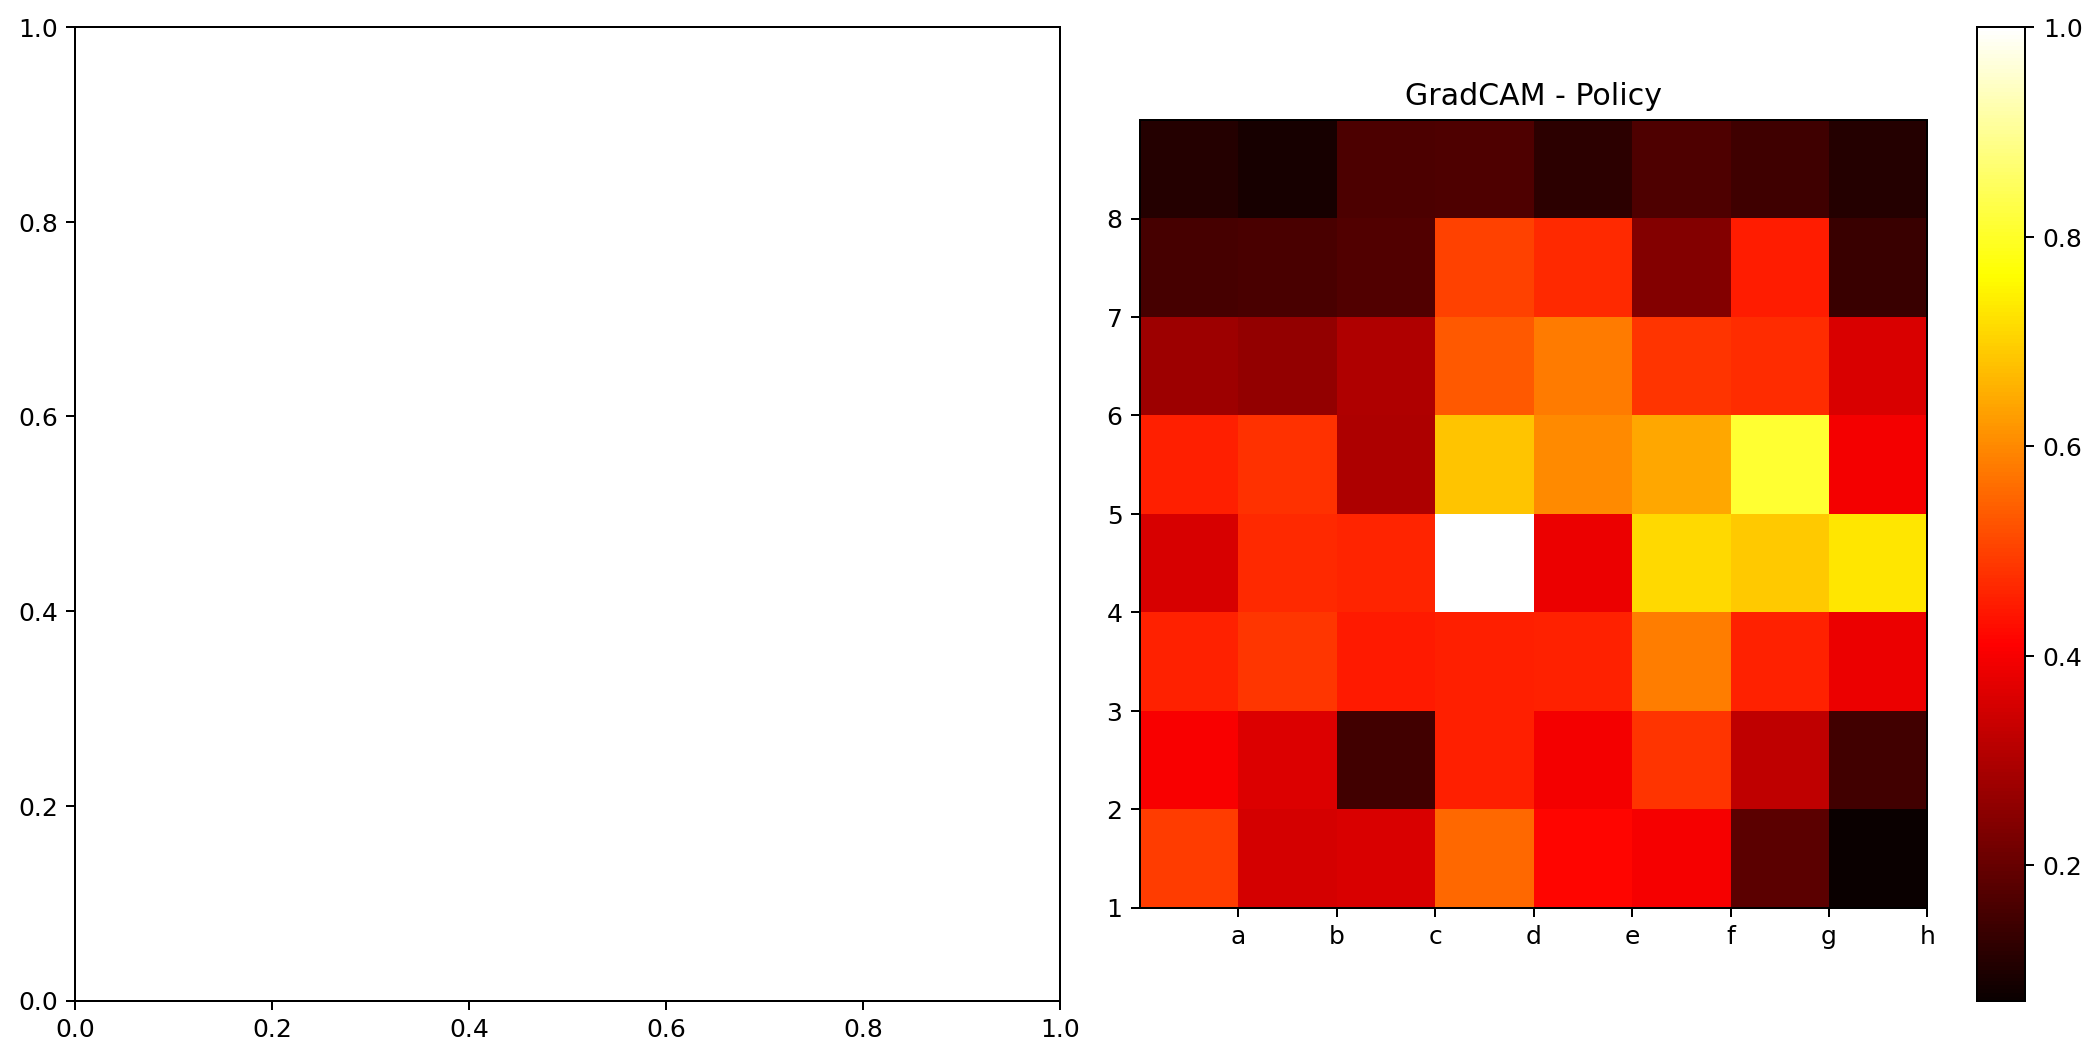
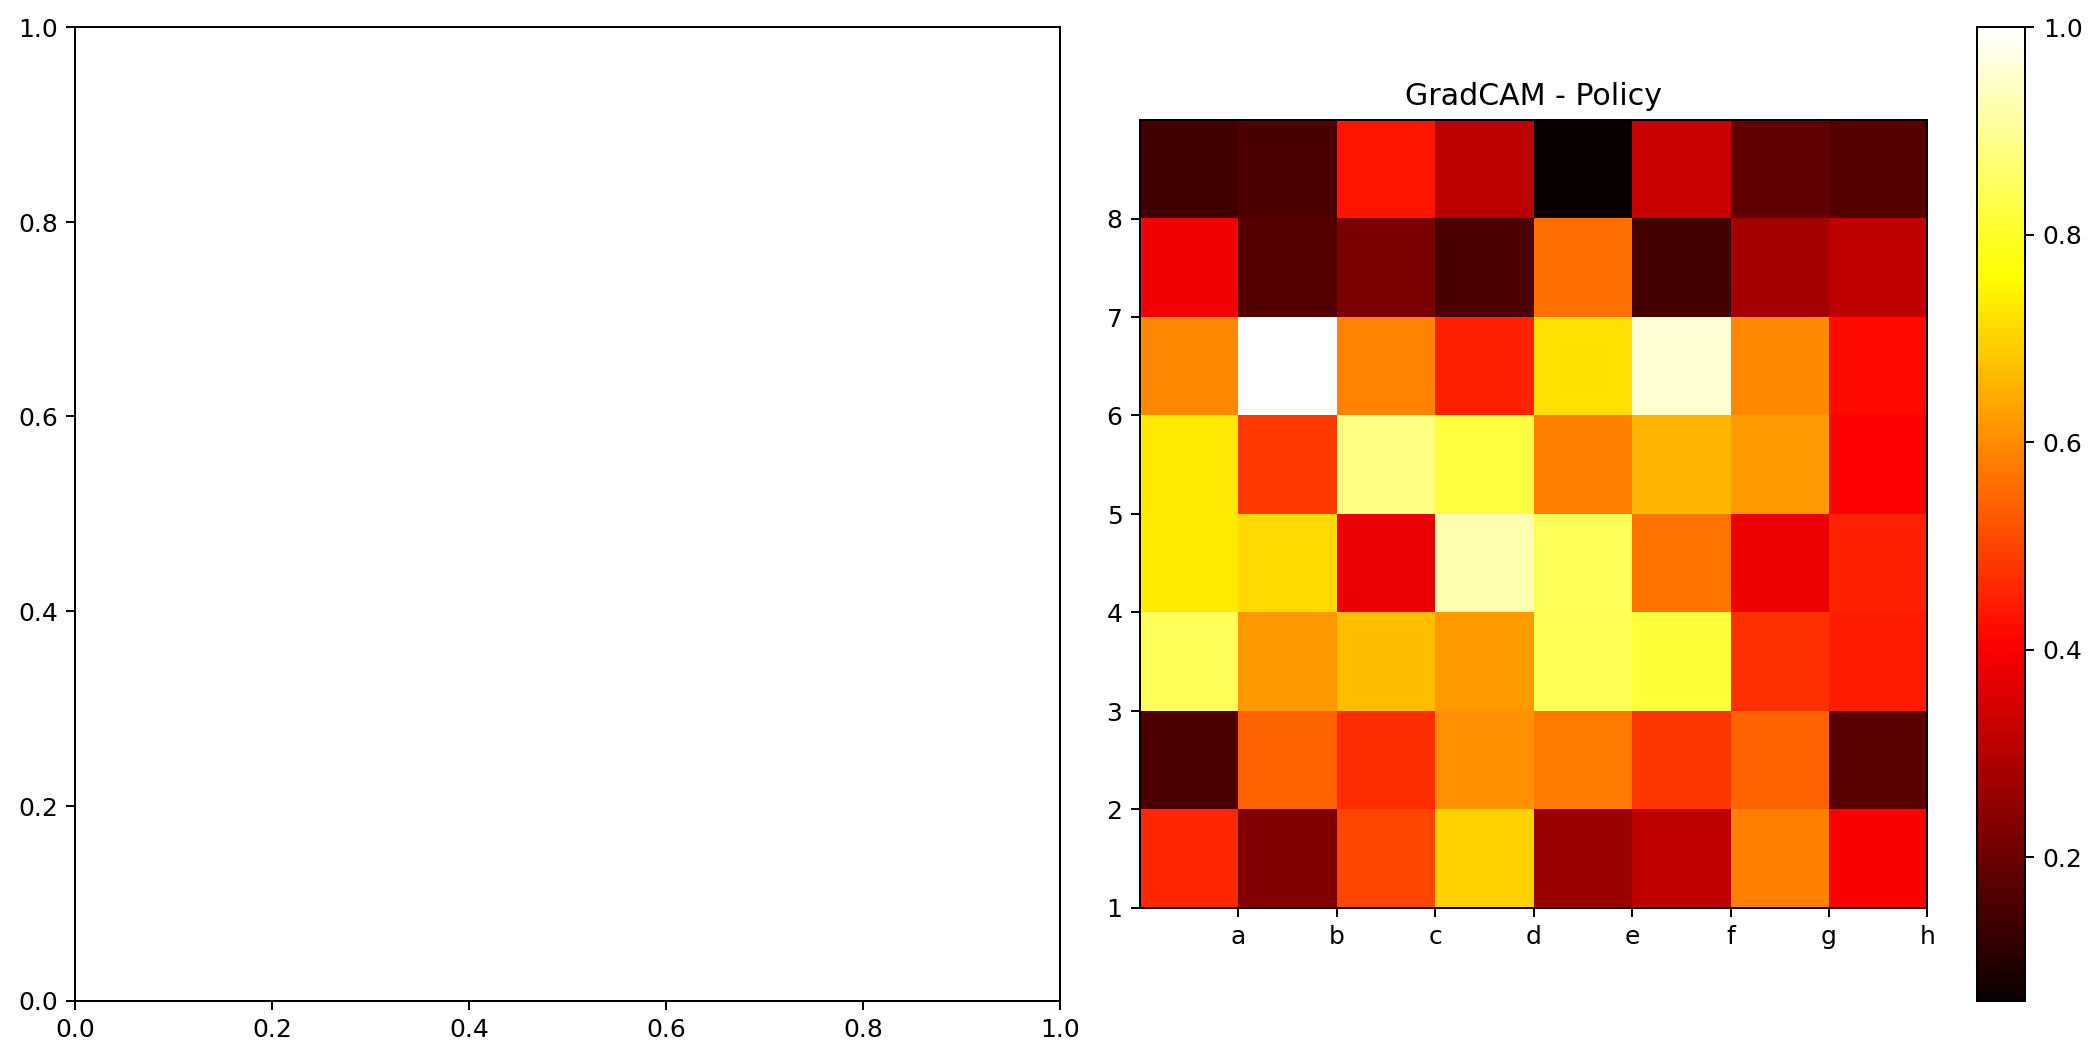
Still not working the alphazero_v2

diff --git a/MLChess/MLChess/Models/pointer_mcts_batched.py b/MLChess/MLChess/Models/pointer_mcts_batched.py
@@ -55,6 +55,14 @@ from ..Representation.pointer_dataset import encode_board, encode_legal_moves
 
 MOVE_VECTOR_DIM = 46
 
+# Profondità dello stack (move_stack/_stack) copiata da chess.Board.copy().
+# 100 semi-mosse bastano per rilevare ripetizioni reali e per la regola delle
+# 50 mosse (che ne richiede esattamente 100). Senza questo limite, ogni
+# child_board.copy() duplica l'intera storia della partita, e il costo
+# cresce linearmente col numero di semi-mosse già giocate — su 64 partite
+# in parallelo con partite lunghe, questo satura la RAM.
+MCTS_STACK_DEPTH = 100
+
 
 # ---------------------------------------------------------------------------
 # Nodo MCTS — con cache board_tensor e legal_moves
@@ -217,7 +225,7 @@ class BatchedPointerMCTS:
         num_simulations: int   = 100,
         temperature:     float = 0.0,
     ) -> chess.Move:
-        root = MCTSNode(board.copy())
+        root = MCTSNode(board.copy(stack=MCTS_STACK_DEPTH))
         self._expand_nodes_batched([root])
         self._add_dirichlet_noise(root)
         root.visit_count = 1
@@ -230,7 +238,7 @@ class BatchedPointerMCTS:
         num_simulations: int   = 100,
         temperature:     float = 1.0,
     ) -> dict[chess.Move, float]:
-        root = MCTSNode(board.copy())
+        root = MCTSNode(board.copy(stack=MCTS_STACK_DEPTH))
         self._expand_nodes_batched([root])
         self._add_dirichlet_noise(root)
         root.visit_count = 1
@@ -392,7 +400,7 @@ class BatchedPointerMCTS:
                     self._finalize_game(g)
                 elif g.root is None:
                     # Figlio non esplorato — costruisci root fresco
-                    g.root = MCTSNode(g.board.copy())
+                    g.root = MCTSNode(g.board.copy(stack=MCTS_STACK_DEPTH))
                     self._expand_nodes_batched([g.root])
                     self._add_dirichlet_noise(g.root)
                     g.root.visit_count = 1
@@ -462,7 +470,7 @@ class BatchedPointerMCTS:
     def _expand_roots_batched(self, games: list[GameState]):
         roots = []
         for g in games:
-            g.root = MCTSNode(g.board.copy())
+            g.root = MCTSNode(g.board.copy(stack=MCTS_STACK_DEPTH))
             roots.append(g.root)
         self._expand_nodes_batched(roots)
         for root in roots:
@@ -545,7 +553,7 @@ class BatchedPointerMCTS:
             node.is_expanded = True
 
             for j, move in enumerate(legal_moves):
-                child_board = node.board.copy()
+                child_board = node.board.copy(stack=MCTS_STACK_DEPTH)
                 child_board.push(move)
                 node.children[move] = MCTSNode(
                     board  = child_board,

diff --git a/Pointer/train_alphazero_v2.py b/Pointer/train_alphazero_v2.py
@@ -44,8 +44,8 @@ MOVE_VECTOR_DIM = 46
 # Configurazione
 # ---------------------------------------------------------------------------
 
-SUPERVISED_CHECKPOINT = "checkpoints_pointer_20_from_fast/best.pt"
-AZ_CHECKPOINT_DIR     = "checkpoints_az_v2"
+SUPERVISED_CHECKPOINT = "checkpoints_pointer_60m_from_fast/best.pt"
+AZ_CHECKPOINT_DIR     = "checkpoints_az_v2_60m"
 
 DEVICE = torch.device("cuda" if torch.cuda.is_available() else "cpu")
 
@@ -121,7 +121,7 @@ class CurriculumDataset:
     """
     def __init__(self, csv_file: str, max_samples: int = MIXED_BUFFER_SIZE):
         tqdm.write(f"  Caricamento curriculum dataset da {csv_file}...")
-        df = pd.read_csv(csv_file).dropna(subset=["FEN", "Evaluation", "Move"])
+        df = pd.read_csv(csv_file, usecols=["FEN", "Moves", "Themes"])
         if len(df) > max_samples * 4:
             df = df.sample(n=max_samples * 4, random_state=42)
         self.df       = df.reset_index(drop=True)

diff --git a/Pointer/Explain_model.py b/Pointer/Explain_model.py
@@ -5,7 +5,7 @@ import matplotlib.pyplot as plt
 
 # Carica il modello
 model = JellyFishPointer()
-ckpt  = torch.load("./checkpoints_az_v3/last.pt", map_location="cpu")
+ckpt  = torch.load("./checkpoints_pointer_60m_from_fast/best.pt", map_location="cpu")
 state_dict = ckpt["model"]
 if any(k.startswith("_orig_mod.") for k in state_dict.keys()):
     state_dict = {k.replace("_orig_mod.", ""): v for k, v in state_dict.items()}

diff --git a/MLChess/MLChess/Understanding/Chess_Pointer_Explainer.py b/MLChess/MLChess/Understanding/Chess_Pointer_Explainer.py
@@ -206,7 +206,7 @@ class ChessPointerExplainer:
         ax3 = fig.add_subplot(gs[0, 2])
         
         att_from, att_to, _ = self.visualize_move_probabilities(
-            board_tensor, legal_moves, move_mask, board=None
+            board_tensor, legal_moves, move_mask, board=board   # era board=None
         )
         ax2.imshow(att_from[::-1], cmap='hot')
         ax2.set_title('Attention FROM')
